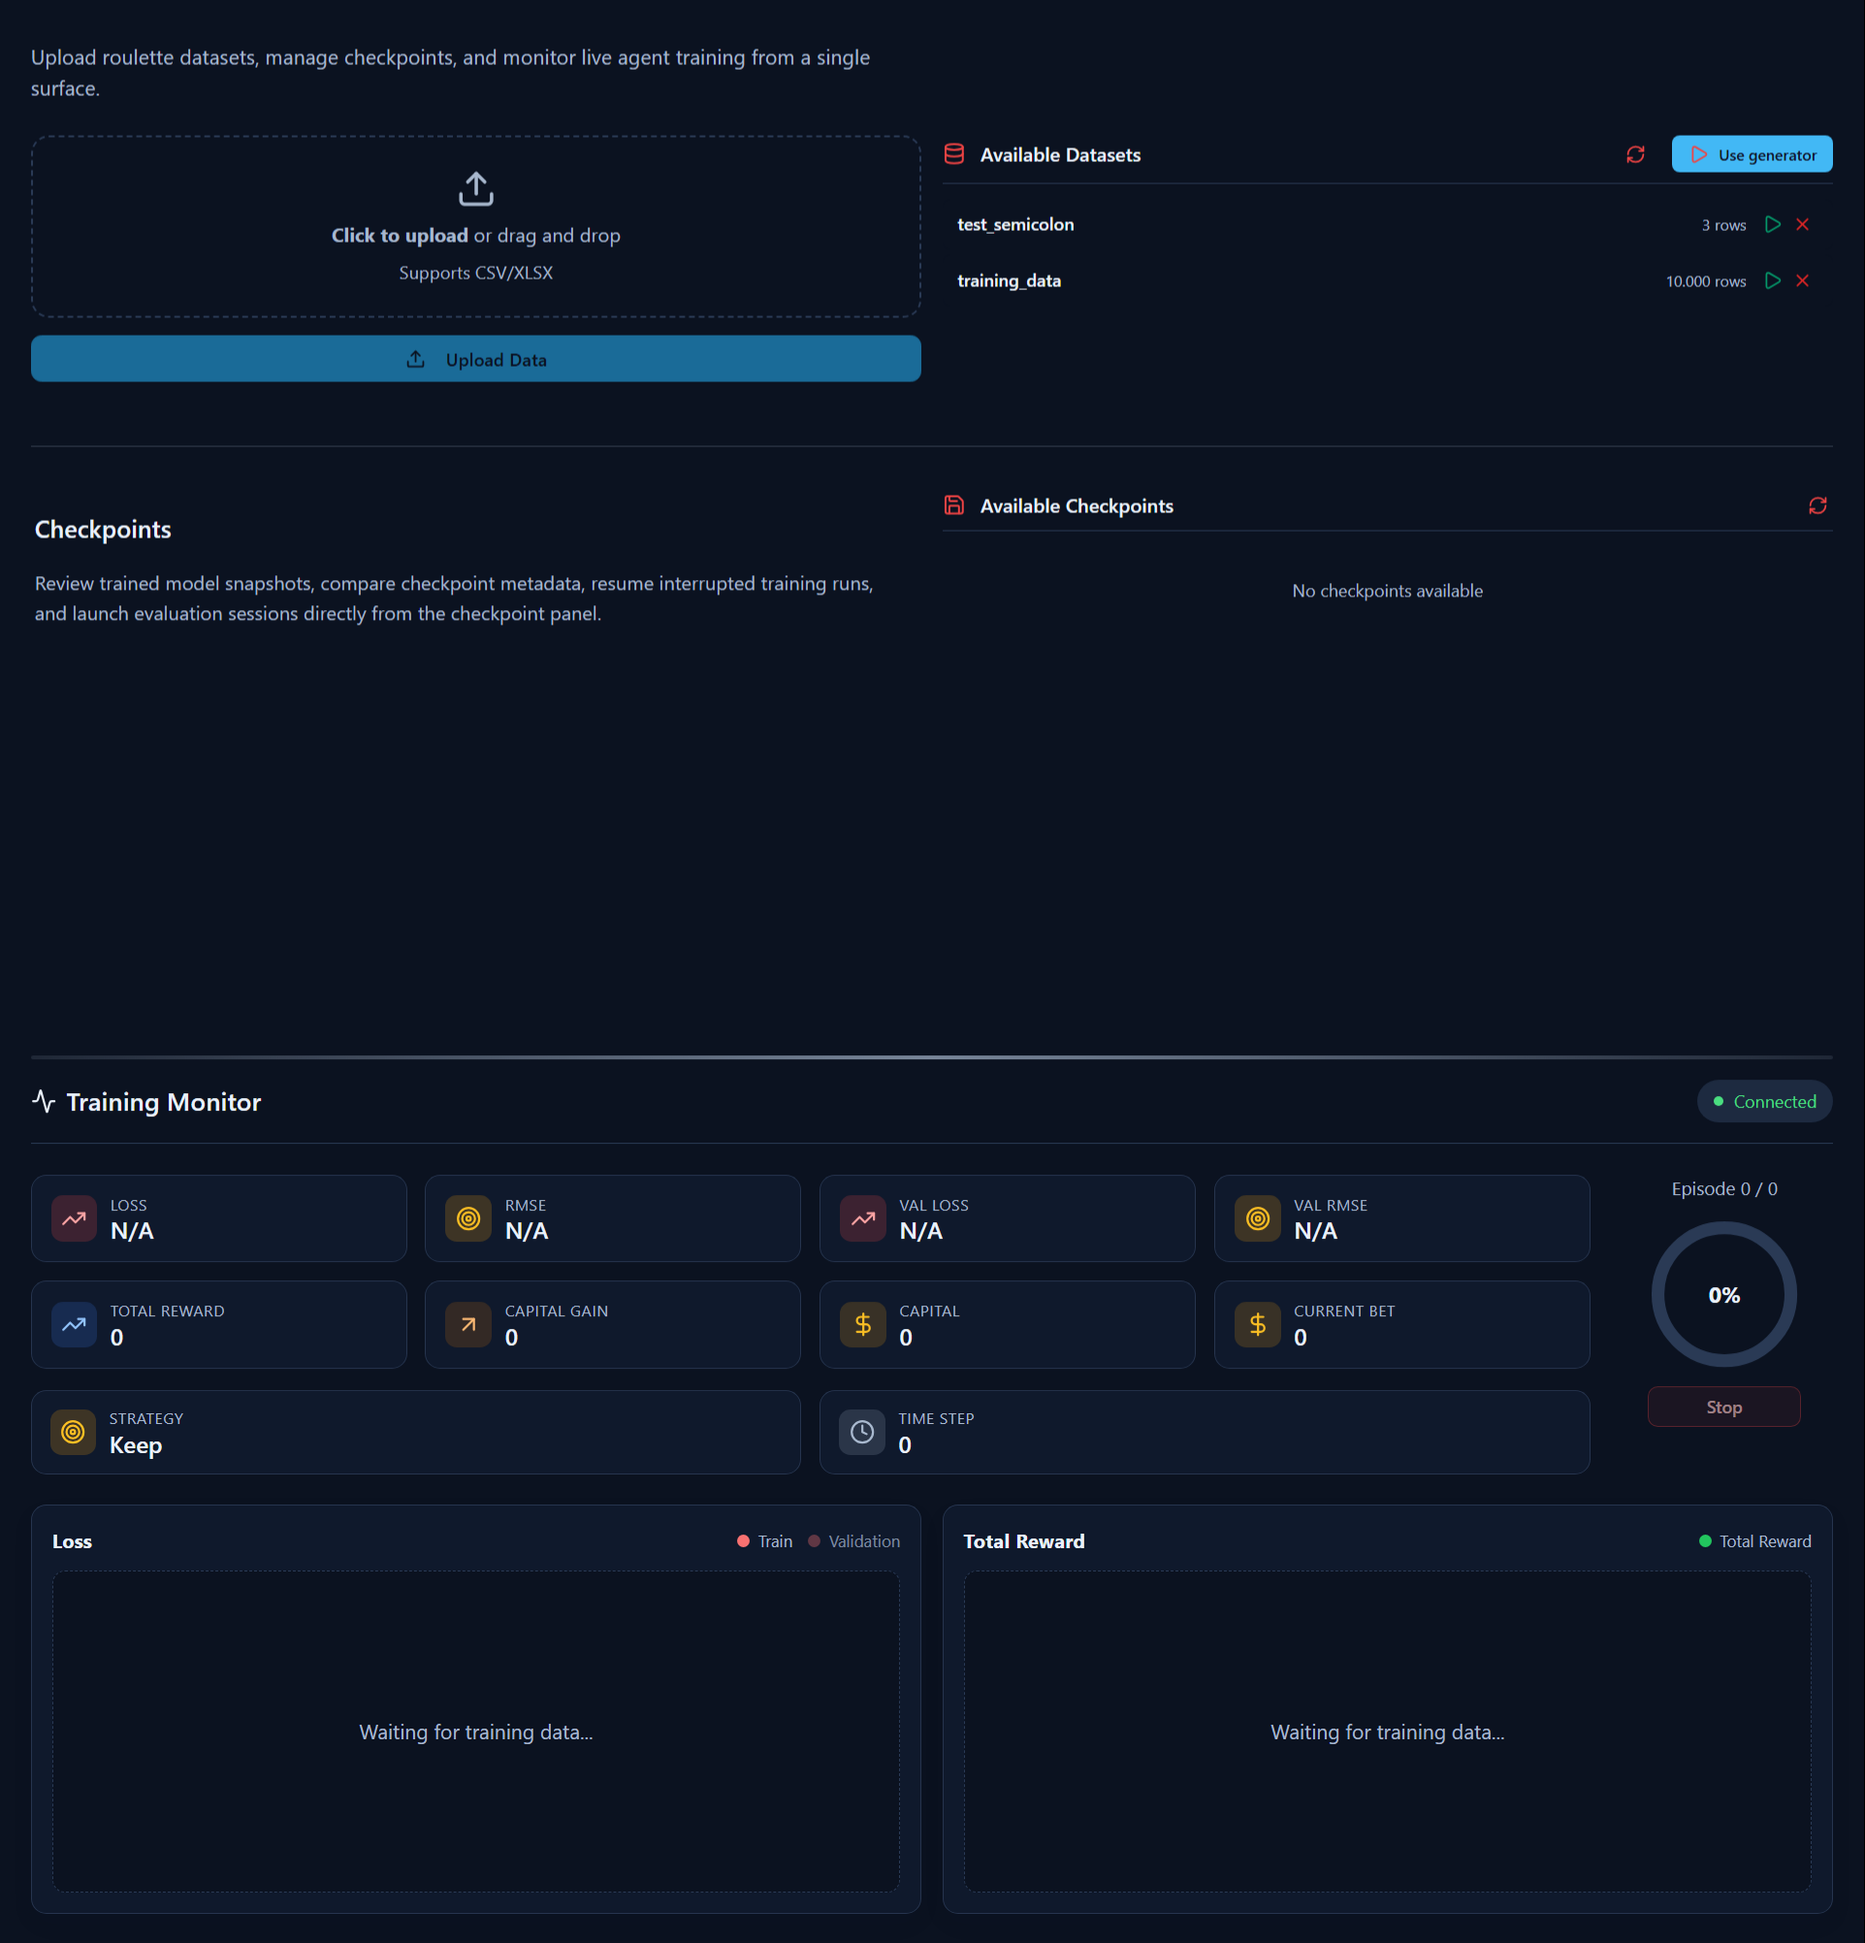
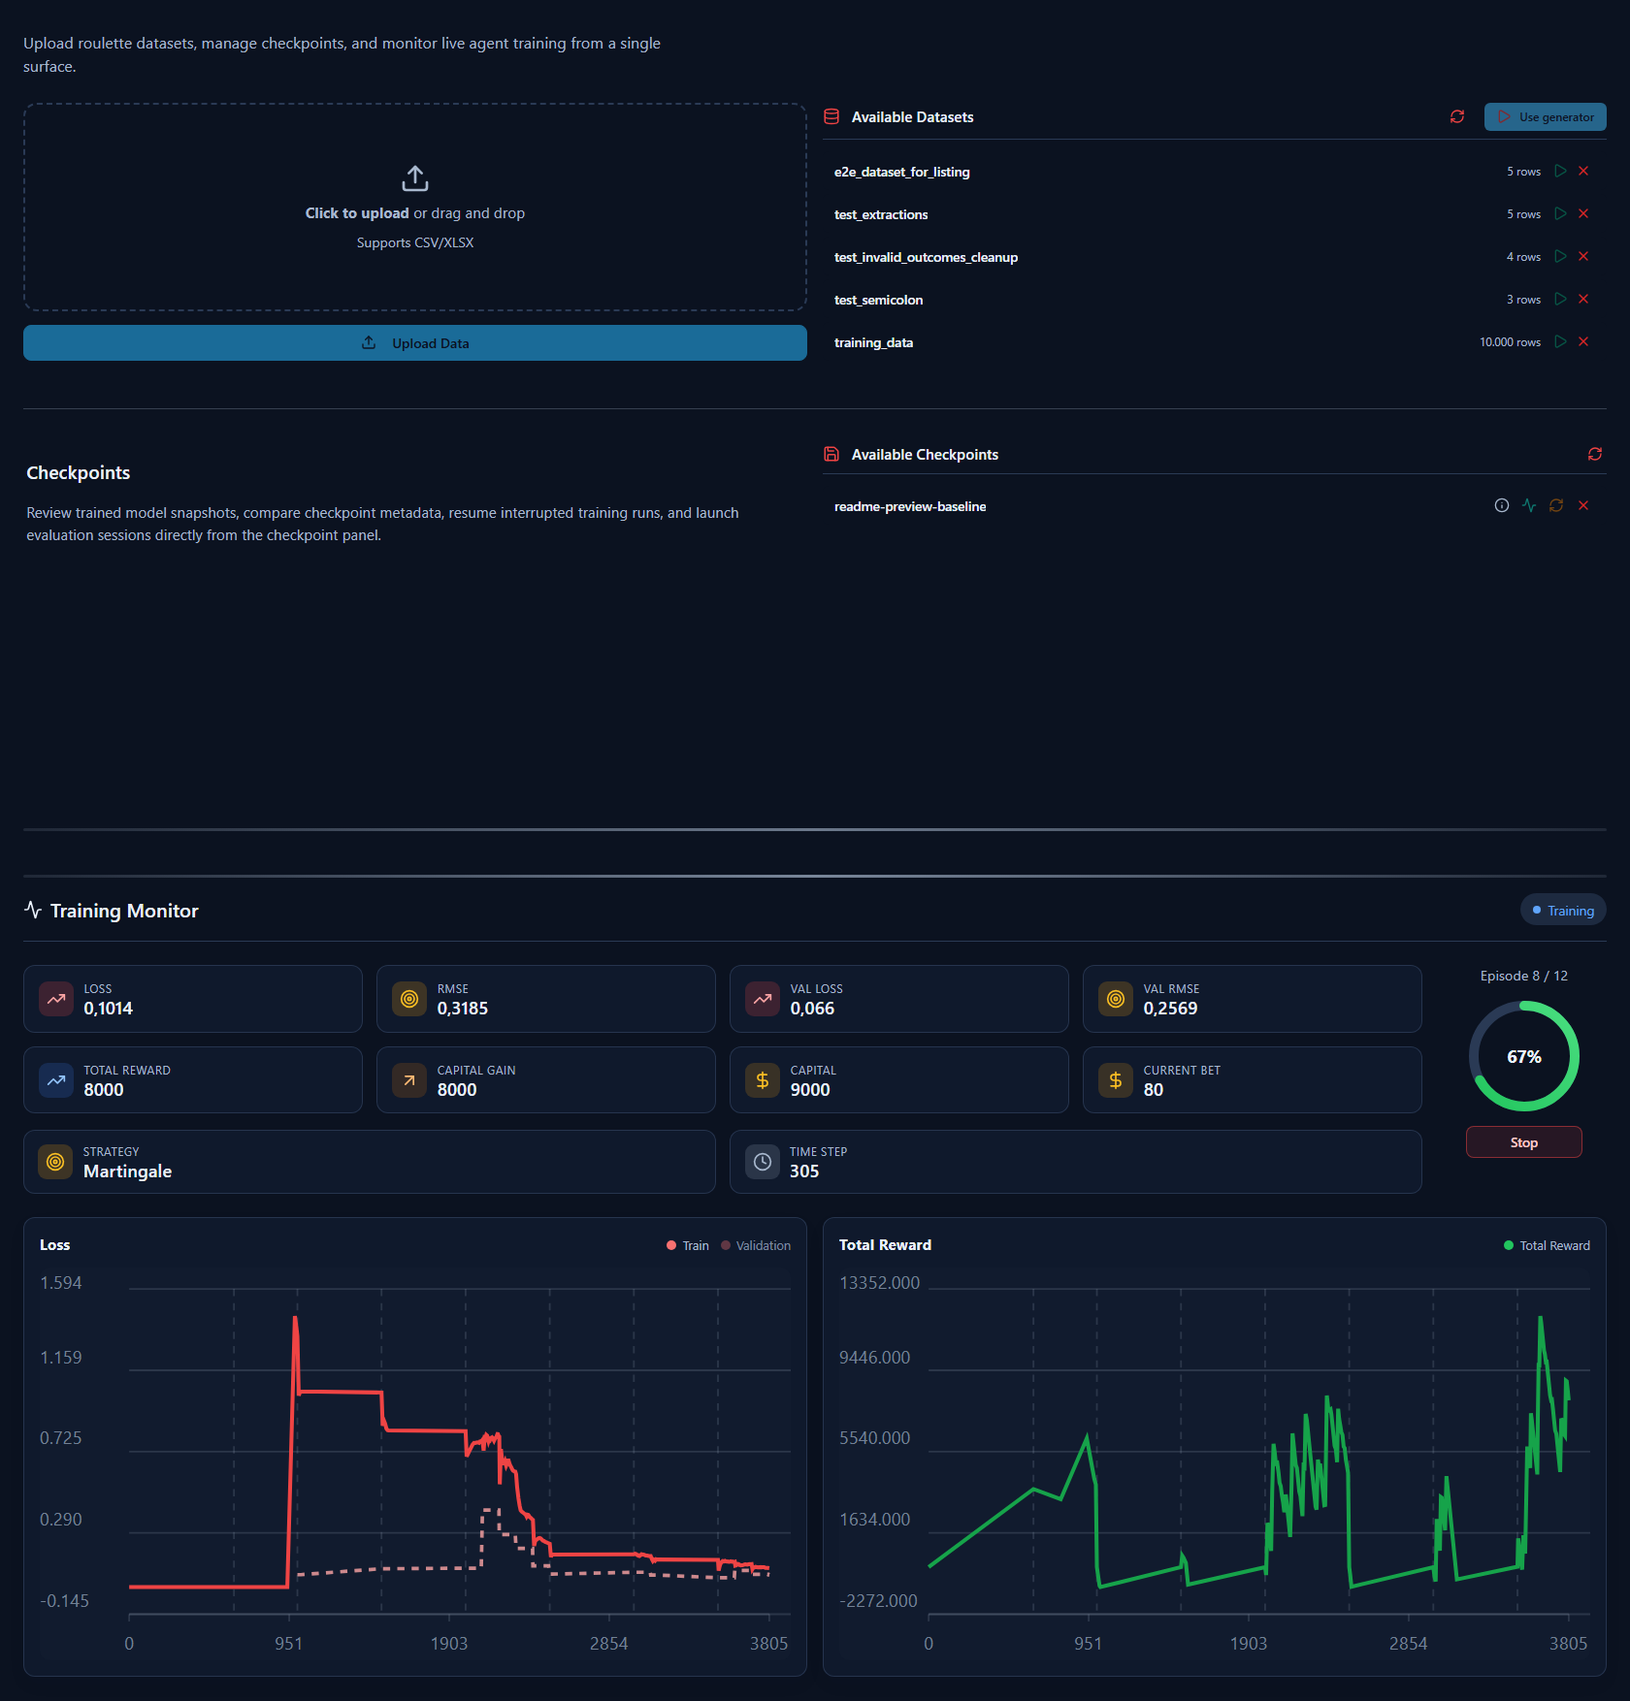
docs: refresh README screenshots with active workflows

diff --git a/README.md b/README.md
@@ -69,7 +69,7 @@ The active ports come from `settings/.env`. The launcher also provides maintenan
 Open **Help** from the Training or Inference workspace to see practical shortcuts and the optional walkthroughs. Tips & Tricks keeps the round-by-round inference loop, checkpoint reuse, synthetic-data setup, and baseline comparisons visible while you work.
 
 ![Tips & Tricks dialog](assets/figures/tips-and-tricks.png)
-_Tips & Tricks brings workflow shortcuts and an optional Inference walkthrough into the local workspace._
+_Tips & Tricks brings workflow shortcuts and an optional Inference walkthrough into an active local inference workspace._
 
 ## Configure the runtime
 
@@ -97,7 +97,7 @@ Database settings belong in `settings/.env`; a `database` block in `configuratio
 5. Review generated checkpoints or resume an interrupted training run.
 
 ![Training workspace](assets/figures/training-page.png)
-_The Training workspace combines dataset upload, checkpoint management, and the live training monitor._
+_The Training workspace combines dataset upload, checkpoint management, and a live training monitor with populated metrics and history charts._
 
 Synthetic training generates roulette outcomes in the canonical `0..36` range and normalizes them for the training serializer.
 
@@ -138,7 +138,7 @@ The defaults below are the starting values in the Training wizard. Change one or
 6. Use **Play**, **Stop**, **Clear**, and session shutdown controls as needed.
 
 ![Inference session](assets/figures/inference-page.png)
-_The Inference workspace pairs checkpoint and dataset setup with stepwise predictions and session history._
+_The Inference workspace pairs a trained checkpoint and dataset with live stepwise predictions, observed outcomes, and session history._
 
 ## Testing
 
